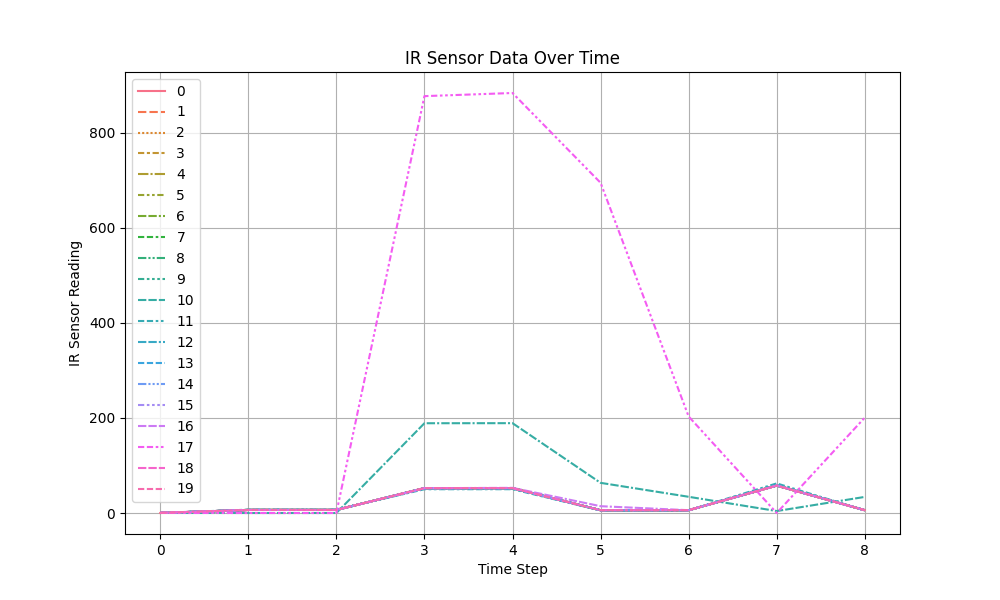
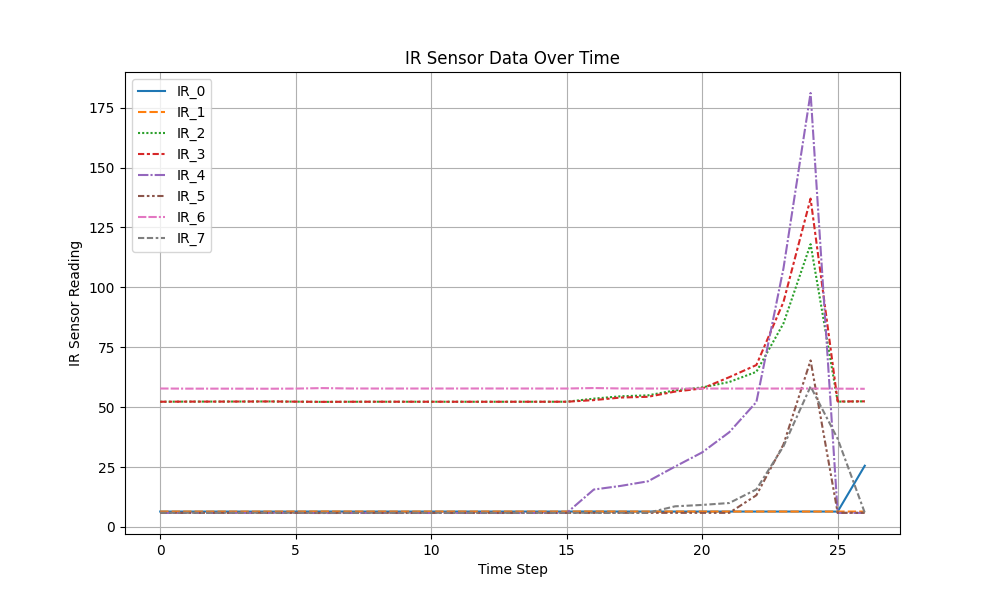
Graphs now are functional

diff --git a/catkin_ws/src/learning_machines/src/learning_machines/test_actions.py b/catkin_ws/src/learning_machines/src/learning_machines/test_actions.py
@@ -32,8 +32,10 @@ def test_move_and_wheel_reset(rob):
     def record_ir_data():
         current_time = time.time() - start_time
         ir_values = rob.read_irs()
+        print(f"IR Values: {ir_values}")  # Debugging: Print IR sensor values
+        if len(ir_values) != 8:
+            print(f"Unexpected number of IR sensor readings: {len(ir_values)}")
         ir_data.append([current_time] + ir_values)
-        print(ir_values)
 
     # Find wall and turn to side
     if demo:
@@ -55,35 +57,42 @@ def test_move_and_wheel_reset(rob):
         record_ir_data()
 
     # Convert IR data to DataFrame
-    columns = ['Time'] + [f'IR_{i}' for i in range(len(ir_data[0]) - 1)]
-    ir_df = pd.DataFrame(ir_data, columns=columns)
+    if ir_data:  # Ensure ir_data is not empty
+        expected_columns = 9  # 1 for time + 8 IR sensors
+        if len(ir_data[0]) != expected_columns:
+            print(f"Unexpected data structure: {len(ir_data[0])} columns found.")
 
-    # Plot the IR data
-    plt.figure(figsize=(10, 6))
-    for i in range(1, len(columns)):
-        sns.lineplot(x=ir_df['Time'], y=ir_df[columns[i]], label=columns[i])
-    plt.title('IR Sensor Data Over Time')
-    plt.xlabel('Time (s)')
-    plt.ylabel('IR Sensor Reading')
-    plt.legend()
-    plt.grid(True)
+        columns = ['Time'] + [f'IR_{i}' for i in range(8)]
+        ir_df = pd.DataFrame(ir_data, columns=columns)
 
-    # Save the plot
-    plt.savefig(FIGRURES_DIR / 'ir_sensor_data_plot.png')
-    plt.close()
+        # Plot the IR data  
+        plt.figure(figsize=(10, 6))
+        for i in range(1, len(columns)):
+            sns.lineplot(x=ir_df['Time'], y=ir_df[columns[i]], label=columns[i])
+        plt.title('IR Sensor Data Over Time')
+        plt.xlabel('Time (s)')
+        plt.ylabel('IR Sensor Reading')
+        plt.legend()
+        plt.grid(True)
 
-    # Plot the IR data
-    plt.figure(figsize=(10, 6))
-    sns.lineplot(data=ir_data)
-    plt.title('IR Sensor Data Over Time')
-    plt.xlabel('Time Step')
-    plt.ylabel('IR Sensor Reading')
-    plt.grid(True)
+        # Save the plot
+        plt.savefig(FIGRURES_DIR / 'ir_sensor_data_plot.png')
+        plt.close()
 
-    # Save the plot
-    plt.savefig(FIGRURES_DIR / 'ir_sensor_data.png')
-    plt.close()
-    
+        # Plot the IR data
+        plt.figure(figsize=(10, 6))
+        sns.lineplot(data=ir_df.drop(columns=['Time']))
+        plt.title('IR Sensor Data Over Time')
+        plt.xlabel('Time Step')
+        plt.ylabel('IR Sensor Reading')
+        plt.grid(True)
+
+        # Save the plot
+        plt.savefig(FIGRURES_DIR / 'ir_sensor_data.png')
+        plt.close()
+    else:
+        print("No IR data recorded.")
+
 
 def test_sensors(rob: IRobobo):
     print("IRS data: ", rob.read_irs())
